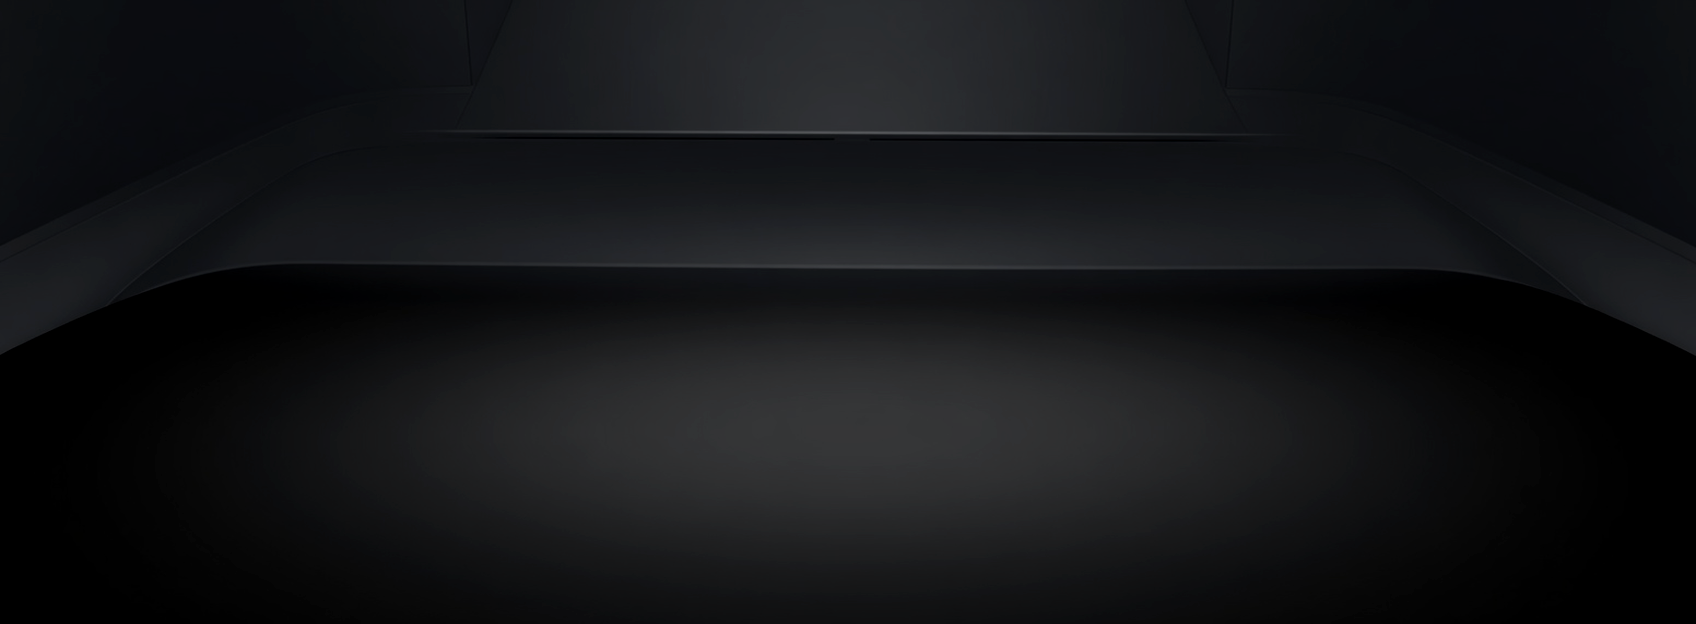
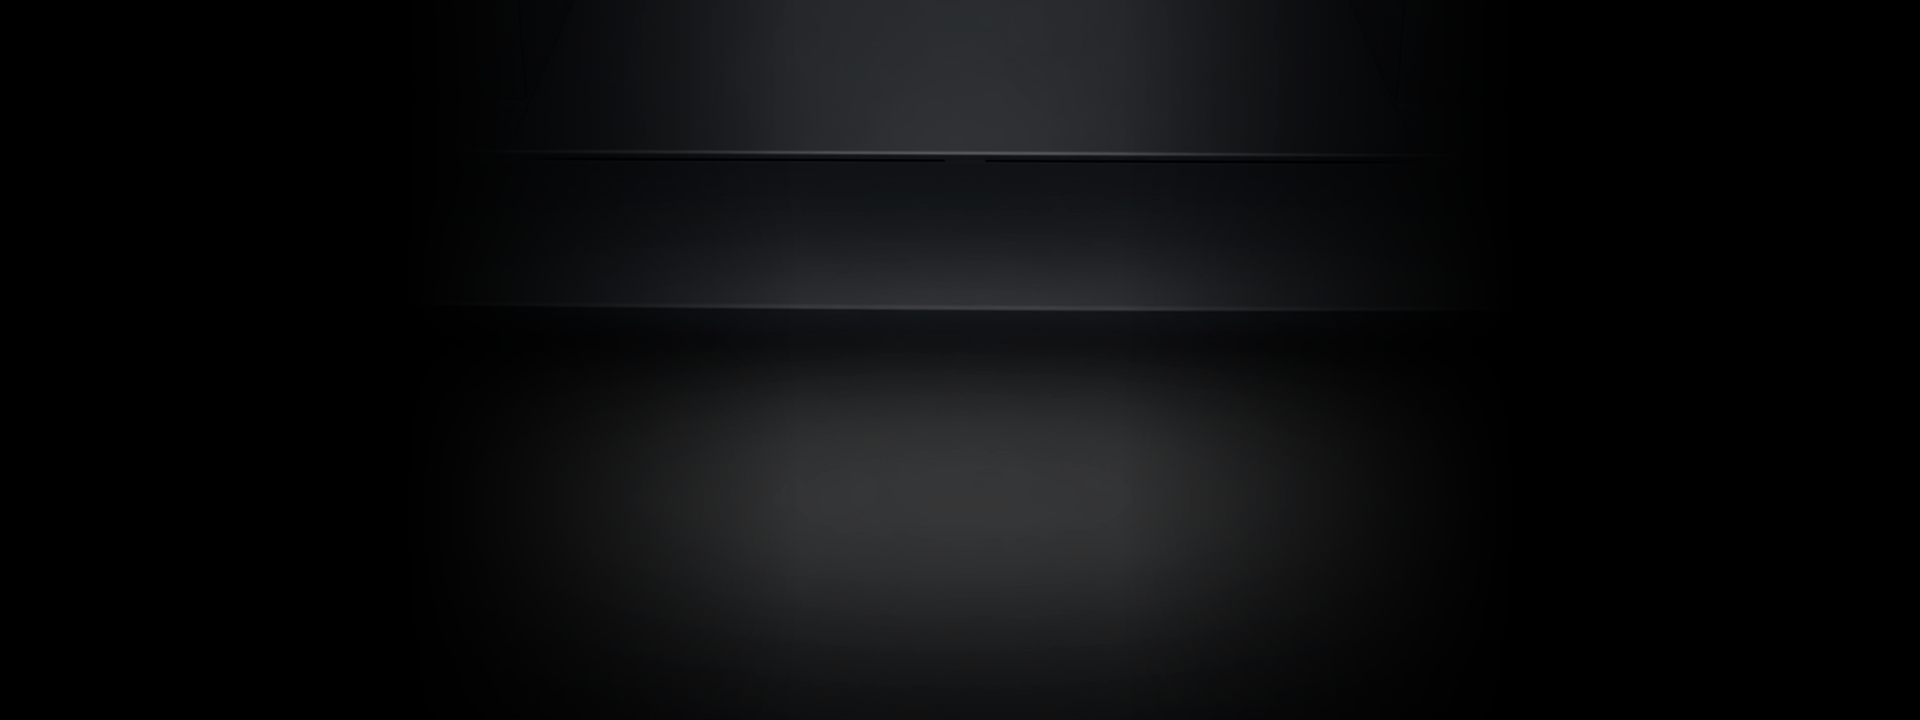
feat(minimalist): bake L/R mask gradients into the Display-1 wallpaper
The theme renders on display 3, which sits on top of the native card 0
cluster info, so `.mask-panel.left/.right` have to be hidden there or they
cover the gauges (mask.js already drops the right panel on card 0). The
Display-1 wallpaper sits *behind* card 0, so painting the same gradients
into the wallpaper keeps the integrated edges on every card without ever
obscuring card 0.

- scripts/bake-cluster-bg.py: regenerates the wallpaper from the pristine
  src/assets art. Replicates InstrumentProjector ImageView CENTER_CROP into
  1920x720 first (source is 1696x624, so a naive bake would shift every
  gradient stop ~19px inward), then composites the ramps in sRGB. Geometry
  constants mirror night.style.css. --bars optionally bakes the top/bottom
  bars as well.
- car-bg.png: regenerated at 1920x720. Solid black through x=400 and from
  x=1520, reaching zero at x=800/1120 - matching the CSS stops.
- theme.xml: 1.3.6 -> 1.3.7 so installed themes actually pull the new asset
  (updates are gated on isNewerVersion).

Non-card-0 screens now darken the fade band twice (wallpaper + panel), worth
~3/255 at x=600 on art that is already near-black, so it is not visible.

diff --git a/scripts/bake-cluster-bg.py b/scripts/bake-cluster-bg.py
@@ -1,0 +1,141 @@
+#!/usr/bin/env python3
+"""
+Bake the minimalist theme's left/right mask gradients directly into the
+Display-1 cluster wallpaper.
+
+Why: the theme (and therefore `.mask-panel.left` / `.mask-panel.right`) runs on
+display 3, which sits ON TOP of the native card 0 cluster info. The panels have
+to be hidden on card 0 or they cover the gauges. The Display-1 wallpaper, on the
+other hand, sits BEHIND card 0 — so a gradient painted into the wallpaper keeps
+the "integrated" look on every card without ever obscuring card 0.
+
+Geometry is taken 1:1 from cluster-widgets/source/v1.0/minimalist/src/styles/night.style.css:
+
+    .mask-panel            { width: 800px; height: 100%; }
+    .mask-panel.left       { left: 0;  background: linear-gradient(to right, #000 50%, transparent 100%); }
+    .mask-panel.right      { right: 0; background: linear-gradient(to left,  #000 50%, transparent 100%); }
+
+The source art is 1696x624 and the panel is InstrumentProjector's ImageView with
+scaleType=CENTER_CROP over a 1920x720 display, so we replicate that fit first —
+otherwise the baked gradient stops would land a few pixels off from the CSS ones.
+
+Usage:
+    python scripts/bake-cluster-bg.py                 # src/assets -> Themes/v1.0/minimalist
+    python scripts/bake-cluster-bg.py --bars          # also bake the top/bottom bars
+    python scripts/bake-cluster-bg.py --preview out.png
+"""
+
+import argparse
+import os
+import sys
+
+try:
+    from PIL import Image
+except ImportError:
+    sys.exit("Pillow is required:  python -m pip install pillow")
+
+REPO = os.path.dirname(os.path.dirname(os.path.abspath(__file__)))
+
+SRC = os.path.join(REPO, "cluster-widgets", "source", "v1.0", "minimalist", "src", "assets", "car-bg.png")
+DST = os.path.join(REPO, "cluster-widgets", "Themes", "v1.0", "minimalist", "car-bg.png")
+
+# Display 1 / cluster viewport
+DISPLAY_W, DISPLAY_H = 1920, 720
+
+# .mask-panel geometry (CSS px == display px, the theme canvas is 1920x720)
+PANEL_W = 800          # .mask-panel width
+SOLID_STOP = 0.50      # linear-gradient(..., #000 50%, transparent 100%)
+
+# .mask-top-bar / .mask-bottom-bar (only with --bars)
+TOP_BAR_H = 95
+TOP_BAR_SOLID = 0.80   # linear-gradient(to bottom, #000 80%, rgba(0,0,0,.6) 85%)
+TOP_BAR_TAIL_ALPHA = 0.6
+BOTTOM_BAR_H = 60
+
+
+def center_crop_fit(img, w, h):
+    """Replicate Android ImageView.ScaleType.CENTER_CROP into a w x h canvas."""
+    sw, sh = img.size
+    scale = max(w / sw, h / sh)
+    rw, rh = round(sw * scale), round(sh * scale)
+    resized = img.resize((rw, rh), Image.LANCZOS)
+    left = (rw - w) // 2
+    top = (rh - h) // 2
+    return resized.crop((left, top, left + w, top + h))
+
+
+def side_alpha(x, width):
+    """Alpha of the left mask panel at column x (mirrored for the right side)."""
+    if x >= width:
+        return 0.0
+    t = x / width                      # 0 at the screen edge, 1 at the inner edge
+    if t <= SOLID_STOP:
+        return 1.0
+    return 1.0 - (t - SOLID_STOP) / (1.0 - SOLID_STOP)
+
+
+def bake(img, bars=False):
+    """Composite black at the computed alpha, in sRGB space (matches the browser)."""
+    img = img.convert("RGB")
+    w, h = img.size
+    px = img.load()
+
+    # Per-column alpha for the L/R panels, combined the way two stacked
+    # black layers would combine: 1 - (1-a_l)(1-a_r).
+    col_alpha = []
+    for x in range(w):
+        al = side_alpha(x, PANEL_W)
+        ar = side_alpha(w - 1 - x, PANEL_W)
+        col_alpha.append(1.0 - (1.0 - al) * (1.0 - ar))
+
+    # Per-row alpha for the bars (opt-in).
+    row_alpha = [0.0] * h
+    if bars:
+        for y in range(h):
+            a = 0.0
+            if y < TOP_BAR_H:
+                t = y / TOP_BAR_H
+                a = 1.0 if t <= TOP_BAR_SOLID else TOP_BAR_TAIL_ALPHA
+            elif y >= h - BOTTOM_BAR_H:
+                a = 1.0
+            row_alpha[y] = a
+
+    for y in range(h):
+        ra = row_alpha[y]
+        for x in range(w):
+            a = col_alpha[x]
+            if ra:
+                a = 1.0 - (1.0 - a) * (1.0 - ra)
+            if a <= 0.0:
+                continue
+            if a >= 1.0:
+                px[x, y] = (0, 0, 0)
+                continue
+            k = 1.0 - a
+            r, g, b = px[x, y]
+            px[x, y] = (int(r * k + 0.5), int(g * k + 0.5), int(b * k + 0.5))
+
+    return img
+
+
+def main():
+    ap = argparse.ArgumentParser(description=__doc__, formatter_class=argparse.RawDescriptionHelpFormatter)
+    ap.add_argument("--src", default=SRC, help="pristine source artwork")
+    ap.add_argument("--out", default=DST, help="baked wallpaper shipped with the theme")
+    ap.add_argument("--bars", action="store_true", help="also bake .mask-top-bar / .mask-bottom-bar")
+    args = ap.parse_args()
+
+    src = Image.open(args.src)
+    print(f"source  : {args.src}  {src.size[0]}x{src.size[1]}")
+
+    fitted = center_crop_fit(src, DISPLAY_W, DISPLAY_H)
+    baked = bake(fitted, bars=args.bars)
+    baked.save(args.out, "PNG", optimize=True)
+
+    print(f"output  : {args.out}  {DISPLAY_W}x{DISPLAY_H}  ({os.path.getsize(args.out) / 1024:.0f} KB)")
+    print(f"panels  : {PANEL_W}px each side, solid to {int(PANEL_W * SOLID_STOP)}px, fade to 0 at {PANEL_W}px"
+          + ("  + top/bottom bars" if args.bars else ""))
+
+
+if __name__ == "__main__":
+    main()
